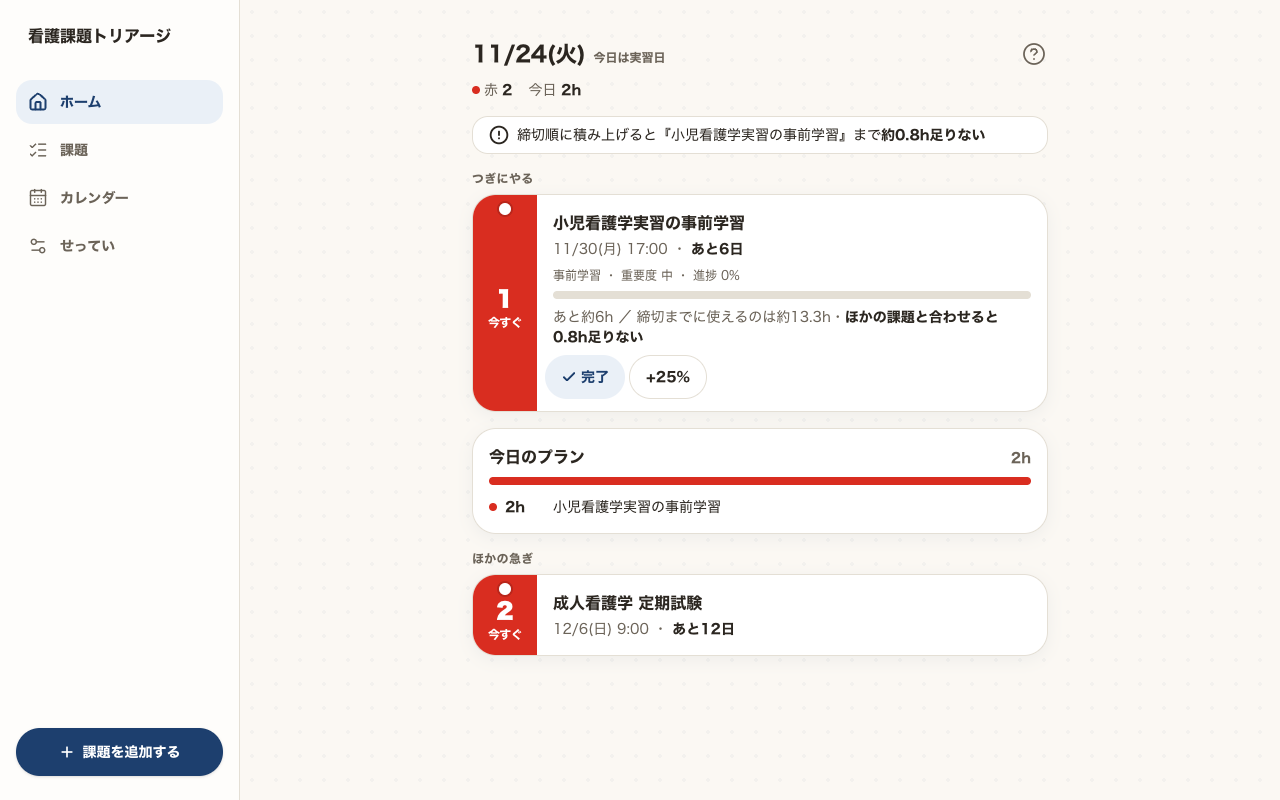
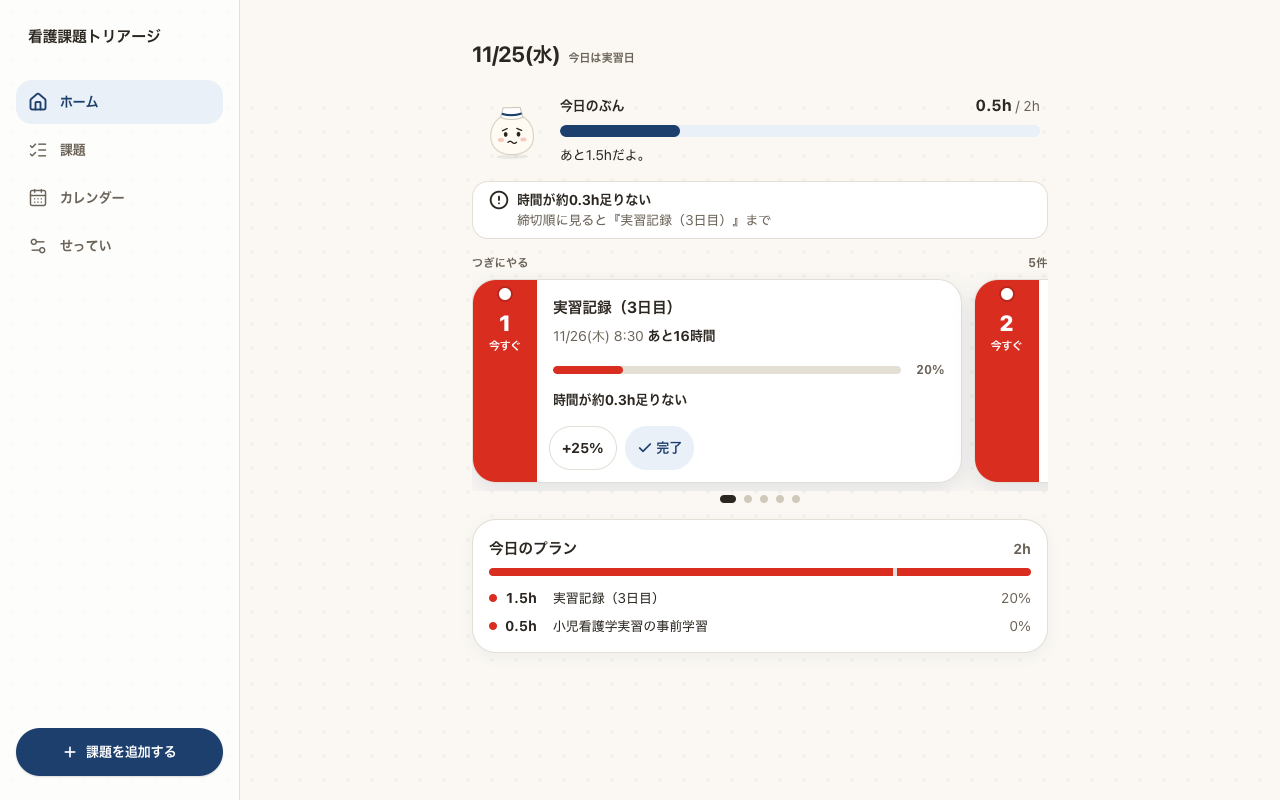
docs: README のスクリーンショットを、いまの見た目で撮り直す

diff --git a/README.md b/README.md
@@ -16,11 +16,11 @@
 
 ## スクリーンショット
 
-| スマホ：ホーム                                                                                                                                                                                                        | スマホ：課題                                                                                                                                                                         | PC：ホーム                                                                                                                               |
-| --------------------------------------------------------------------------------------------------------------------------------------------------------------------------------------------------------------------- | ------------------------------------------------------------------------------------------------------------------------------------------------------------------------------------ | ---------------------------------------------------------------------------------------------------------------------------------------- |
-| <img src="docs/screenshot-mobile.png" alt="スマホのホーム。日付の横に「今日は実習日」、その下に赤2件・今日2h の1行、時間不足の1行、つぎにやる課題のカード、今日のプラン、ほかの急ぎ。右下に＋、下にタブ" width="220"> | <img src="docs/screenshot-mobile-tasks.png" alt="スマホの課題画面。未完了・完了の切り替え、時間不足の1行、2行の課題カードが並び、1枚目だけ開いて根拠とボタンが出ている" width="220"> | <img src="docs/screenshot-desktop.png" alt="PC のホーム。左にメニュー、中央に1列でつぎにやる課題・今日のプラン・ほかの急ぎ" width="480"> |
+| スマホ：ホーム                                                                                                                                                                                                                                                                  | スマホ：課題                                                                                                                                                                                 | PC：ホーム                                                                                                                                                                             |
+| ------------------------------------------------------------------------------------------------------------------------------------------------------------------------------------------------------------------------------------------------------------------------------- | -------------------------------------------------------------------------------------------------------------------------------------------------------------------------------------------- | -------------------------------------------------------------------------------------------------------------------------------------------------------------------------------------- |
+| <img src="docs/screenshot-mobile.png" alt="スマホのホーム。日付の横に「今日は実習日」、キャラクターと今日のぶんのバー（0.5h / 2h）、時間が約0.3h足りないお知らせ、つぎにやる課題のカード（タッグ・締切・進み具合・＋25%と完了）、今日のプラン。右下に＋、下にタブ" width="220"> | <img src="docs/screenshot-mobile-tasks.png" alt="スマホの課題画面。未完了・完了の切り替え、時間不足のお知らせ、色つきの順位のタッグと課題名・残り・締切・進み具合の%が並ぶ一覧" width="220"> | <img src="docs/screenshot-desktop.png" alt="PC のホーム。左にメニューと課題を追加するボタン、中央に1列で今日のぶん・時間不足のお知らせ・つぎにやるのカード・今日のプラン" width="480"> |
 
-実習期間中・1日2時間の例です。締切が6日後の「小児看護学実習の事前学習」は単体なら間に合いますが、締切の早い課題と合わせると0.8h足りないので赤になり、ホームの上に1行で知らせています。
+実習期間中・1日2時間の例です。明日の朝が締切の「実習記録（3日目）」は、今日使える時間では約0.3h足りないので、ホームの上とつぎにやるのカードで知らせています。締切が6日後の「小児看護学実習の事前学習」は単体なら間に合いますが、締切の早い課題と合わせると時間が足りないので赤になっています。
 
 ## 主な機能
 
